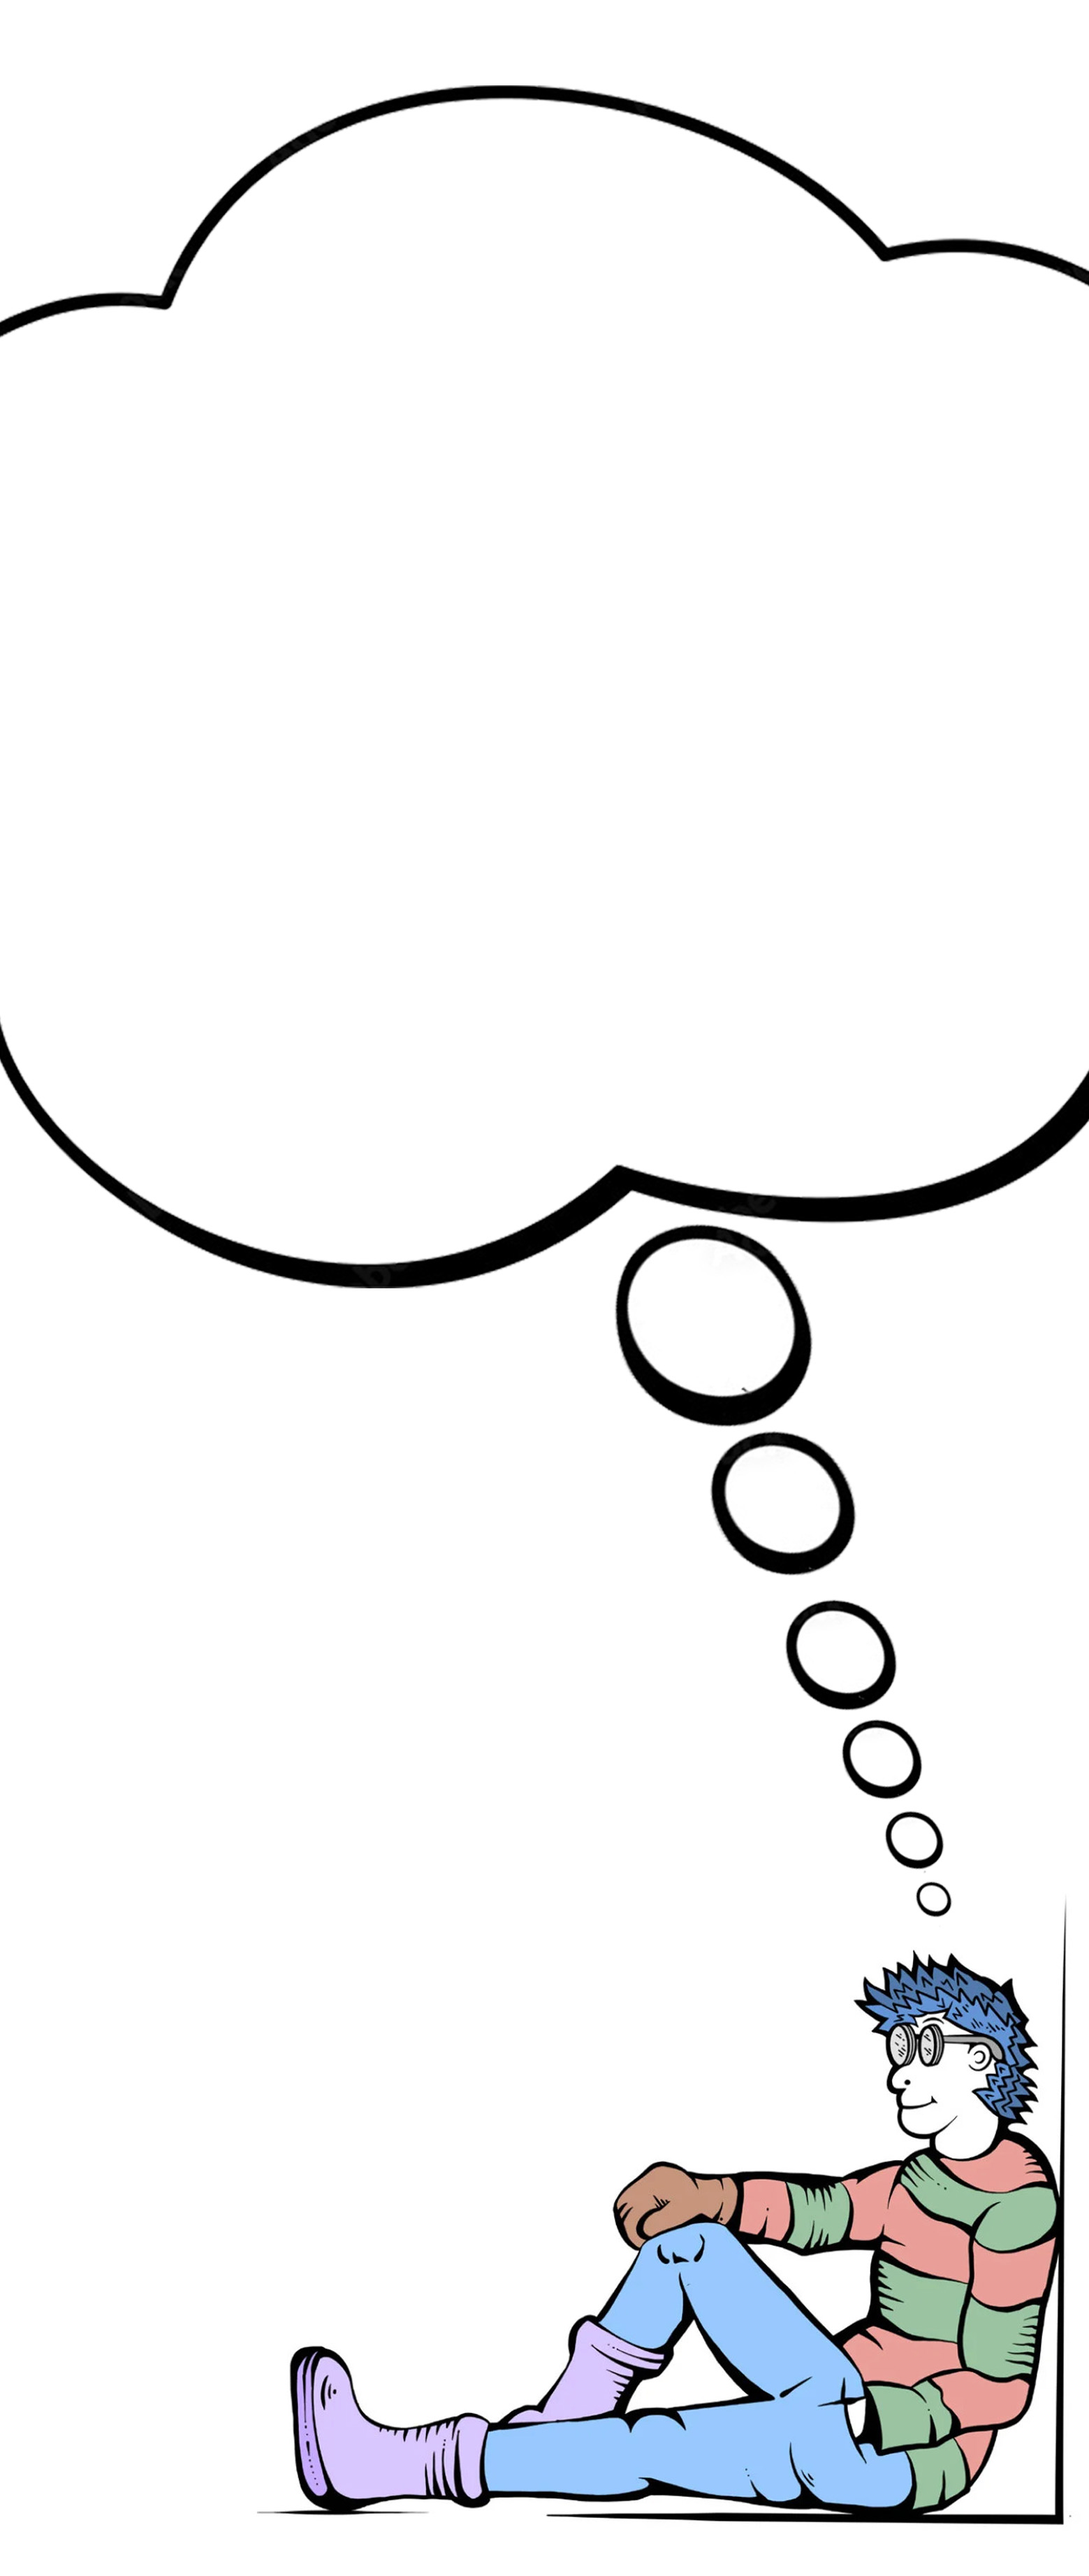
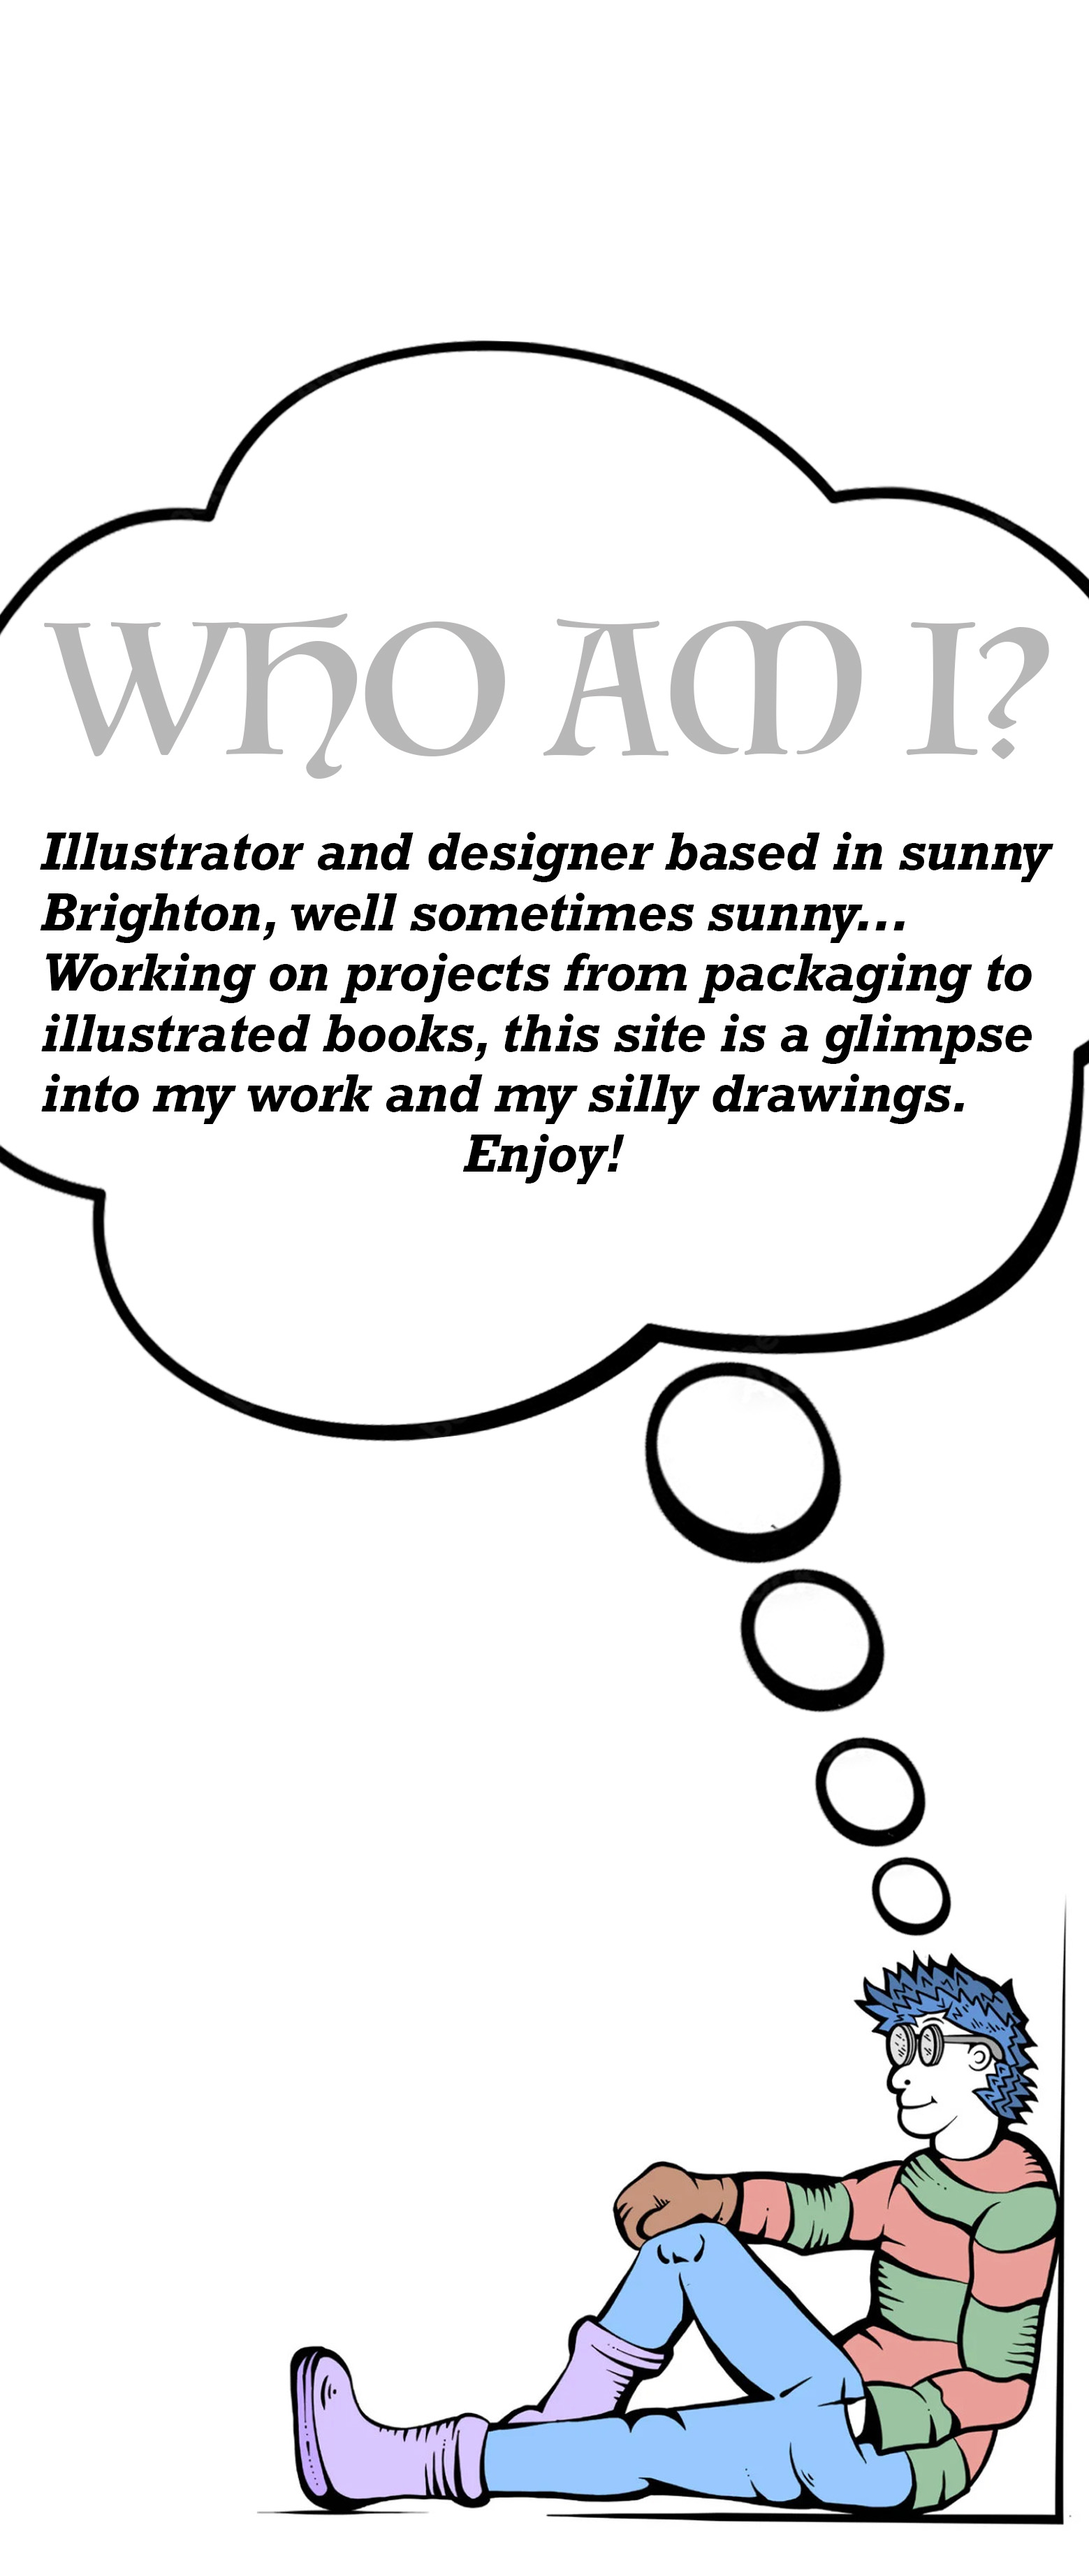
chang background img for mobile version with text in the cloud bubble

diff --git a/style.css b/style.css
@@ -89,7 +89,7 @@ p {
     margin-bottom: 10px;
   }
 
-  .text-box3{
+  .text-box3 {
     background-color: rgba(255, 255, 255, 0.7.8);
     padding: 2px;
   }
@@ -102,26 +102,29 @@ p {
   /* .about .hero-text h1 {
     font-size: 34px;
   } */
-
-
 }
 
 @media screen and (max-width: 678px) {
   .background-img {
     /* change to mobile version */
     background-image: url("/images/title/titleMobile.jpg");
-    background-size: 94%;
-    background-position: 100% 130%;
+    background-size: 98%;
+    background-position: 40% 100%;
     height: calc(95vh - 20px);
     width: 100%;
     background-repeat: no-repeat;
   }
 
- .hero-text,  .text-box1 h1 {
-  position: absolute;
-  font-size: 40px;
-  margin-top: 5px;
-  max-width: 90%;
+  .text-box1{
+    display: none;
+  }
+
+  .hero-text,
+  .text-box1 h1 {
+    position: absolute;
+    font-size: 40px;
+    margin-top: 5px;
+    max-width: 90%;
   }
   .text-box2 {
     display: none;
@@ -130,7 +133,7 @@ p {
   .text-box3 {
     display: block;
     position: relative;
-}
+  }
 
   .about .hero-text p {
     margin-top: 50px;
@@ -140,19 +143,10 @@ p {
     font-size: 18px;
     align-items: center;
     word-spacing: 3px;
-
-
-
   }
-
-
-
 }
 
-
-
 @media screen and (min-width: 1440px) {
-
   .about .hero-text {
     left: 0%;
     top: 35%;
@@ -167,7 +161,6 @@ p {
     font-size: 70px;
   }
 
-
   .background-img {
     height: 90vh;
   }
@@ -178,7 +171,6 @@ p {
 }
 
 @media screen and (min-width: 1920px) {
-
   .background-img {
     background-image: url("/images/title/titleBubbleSpeech.webp");
     background-size: 100%;
@@ -186,7 +178,6 @@ p {
     height: 93vh;
     background-position: 100% 100%;
   }
-
 
   /* .text-box2 {
     position: absolute;
@@ -208,15 +199,12 @@ p {
   .about .hero-text h1 {
     font-size: 75px;
   }
-
 }
 
 @media screen and (min-width: 2000px) {
-
   .background-img {
     background-size: 98%;
   }
-
 
   .text-box2 {
     padding: 10px;
@@ -237,12 +225,10 @@ p {
   }
 }
 
-
 @media screen and (min-width: 2360) {
   .background-img {
     background-size: 98%;
   }
-
 
   .text-box2 {
     padding: 10px;

diff --git a/index.html b/index.html
@@ -75,10 +75,10 @@
                     </p>
                 </div>
 
-                <div class="text-box3">
+                <!-- <div class="text-box3">
                     <p>Illustrator and designer based in sunny Brighton, well sometimes sunny… Working on projects from packaging to illustrated books, this site is a glimpse into my work and my silly drawings.    Enjoy!
 
-                </div>
+                </div> -->
             </div>
         </div>
 
